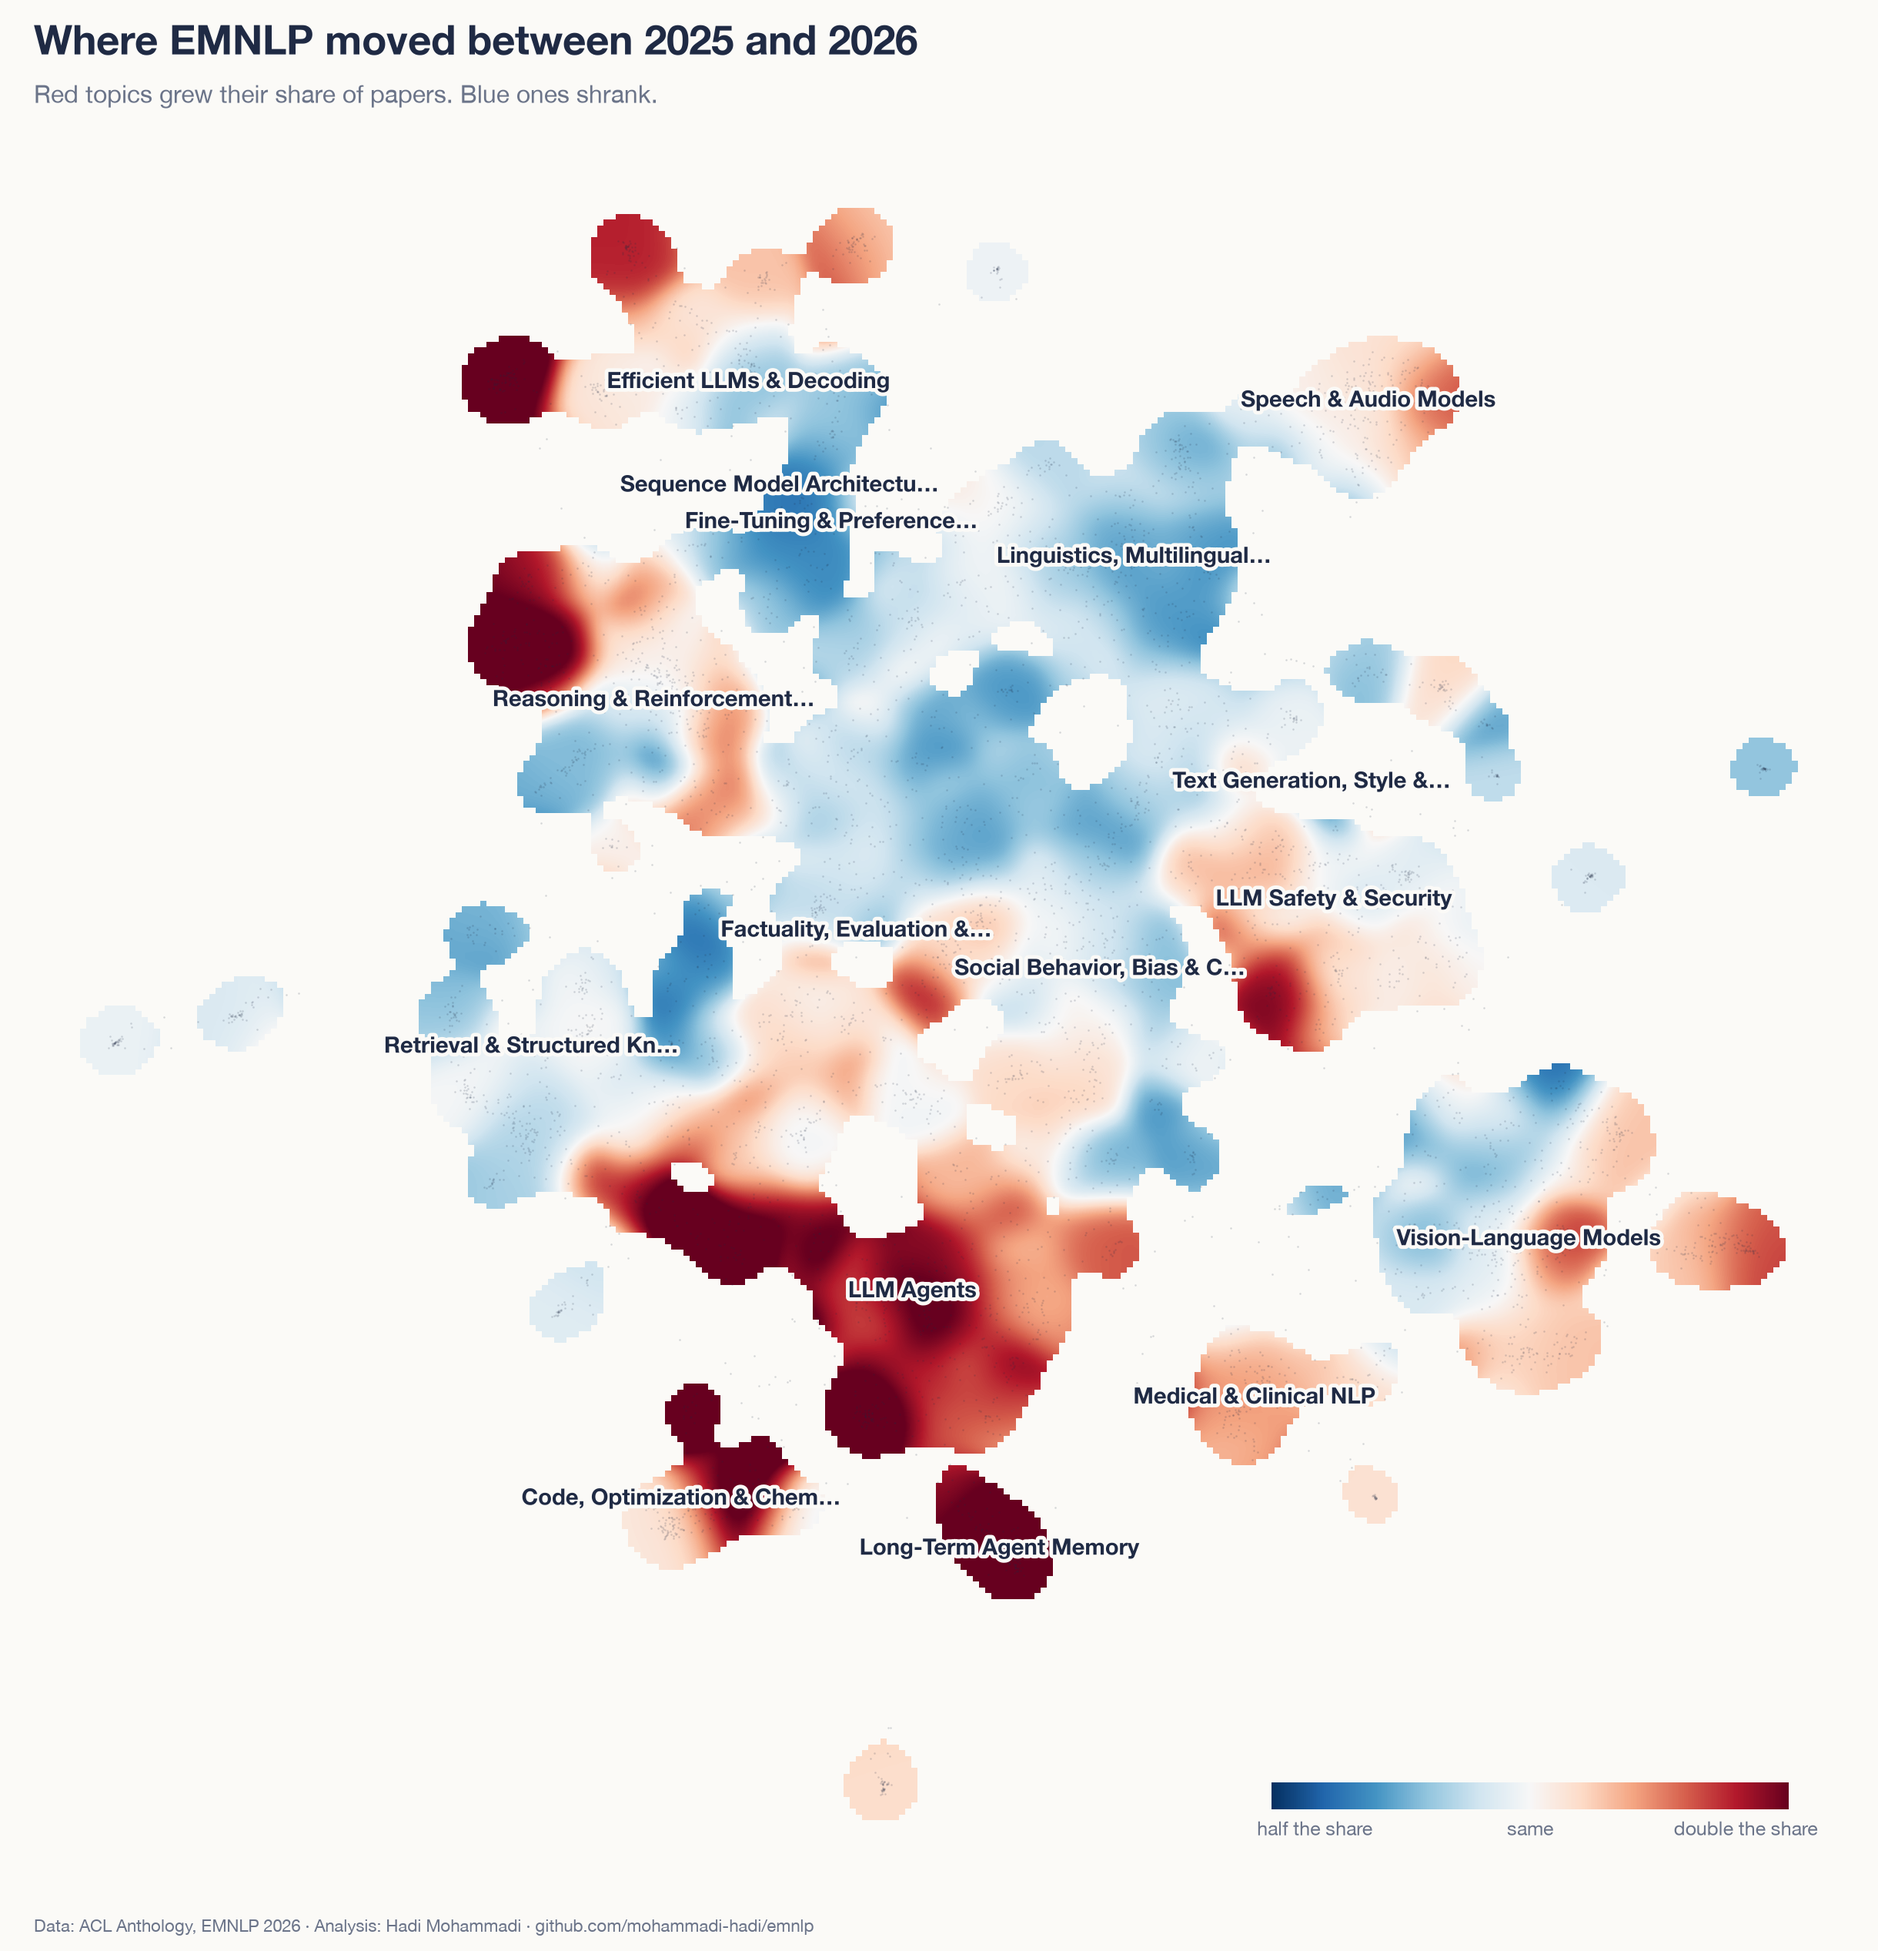
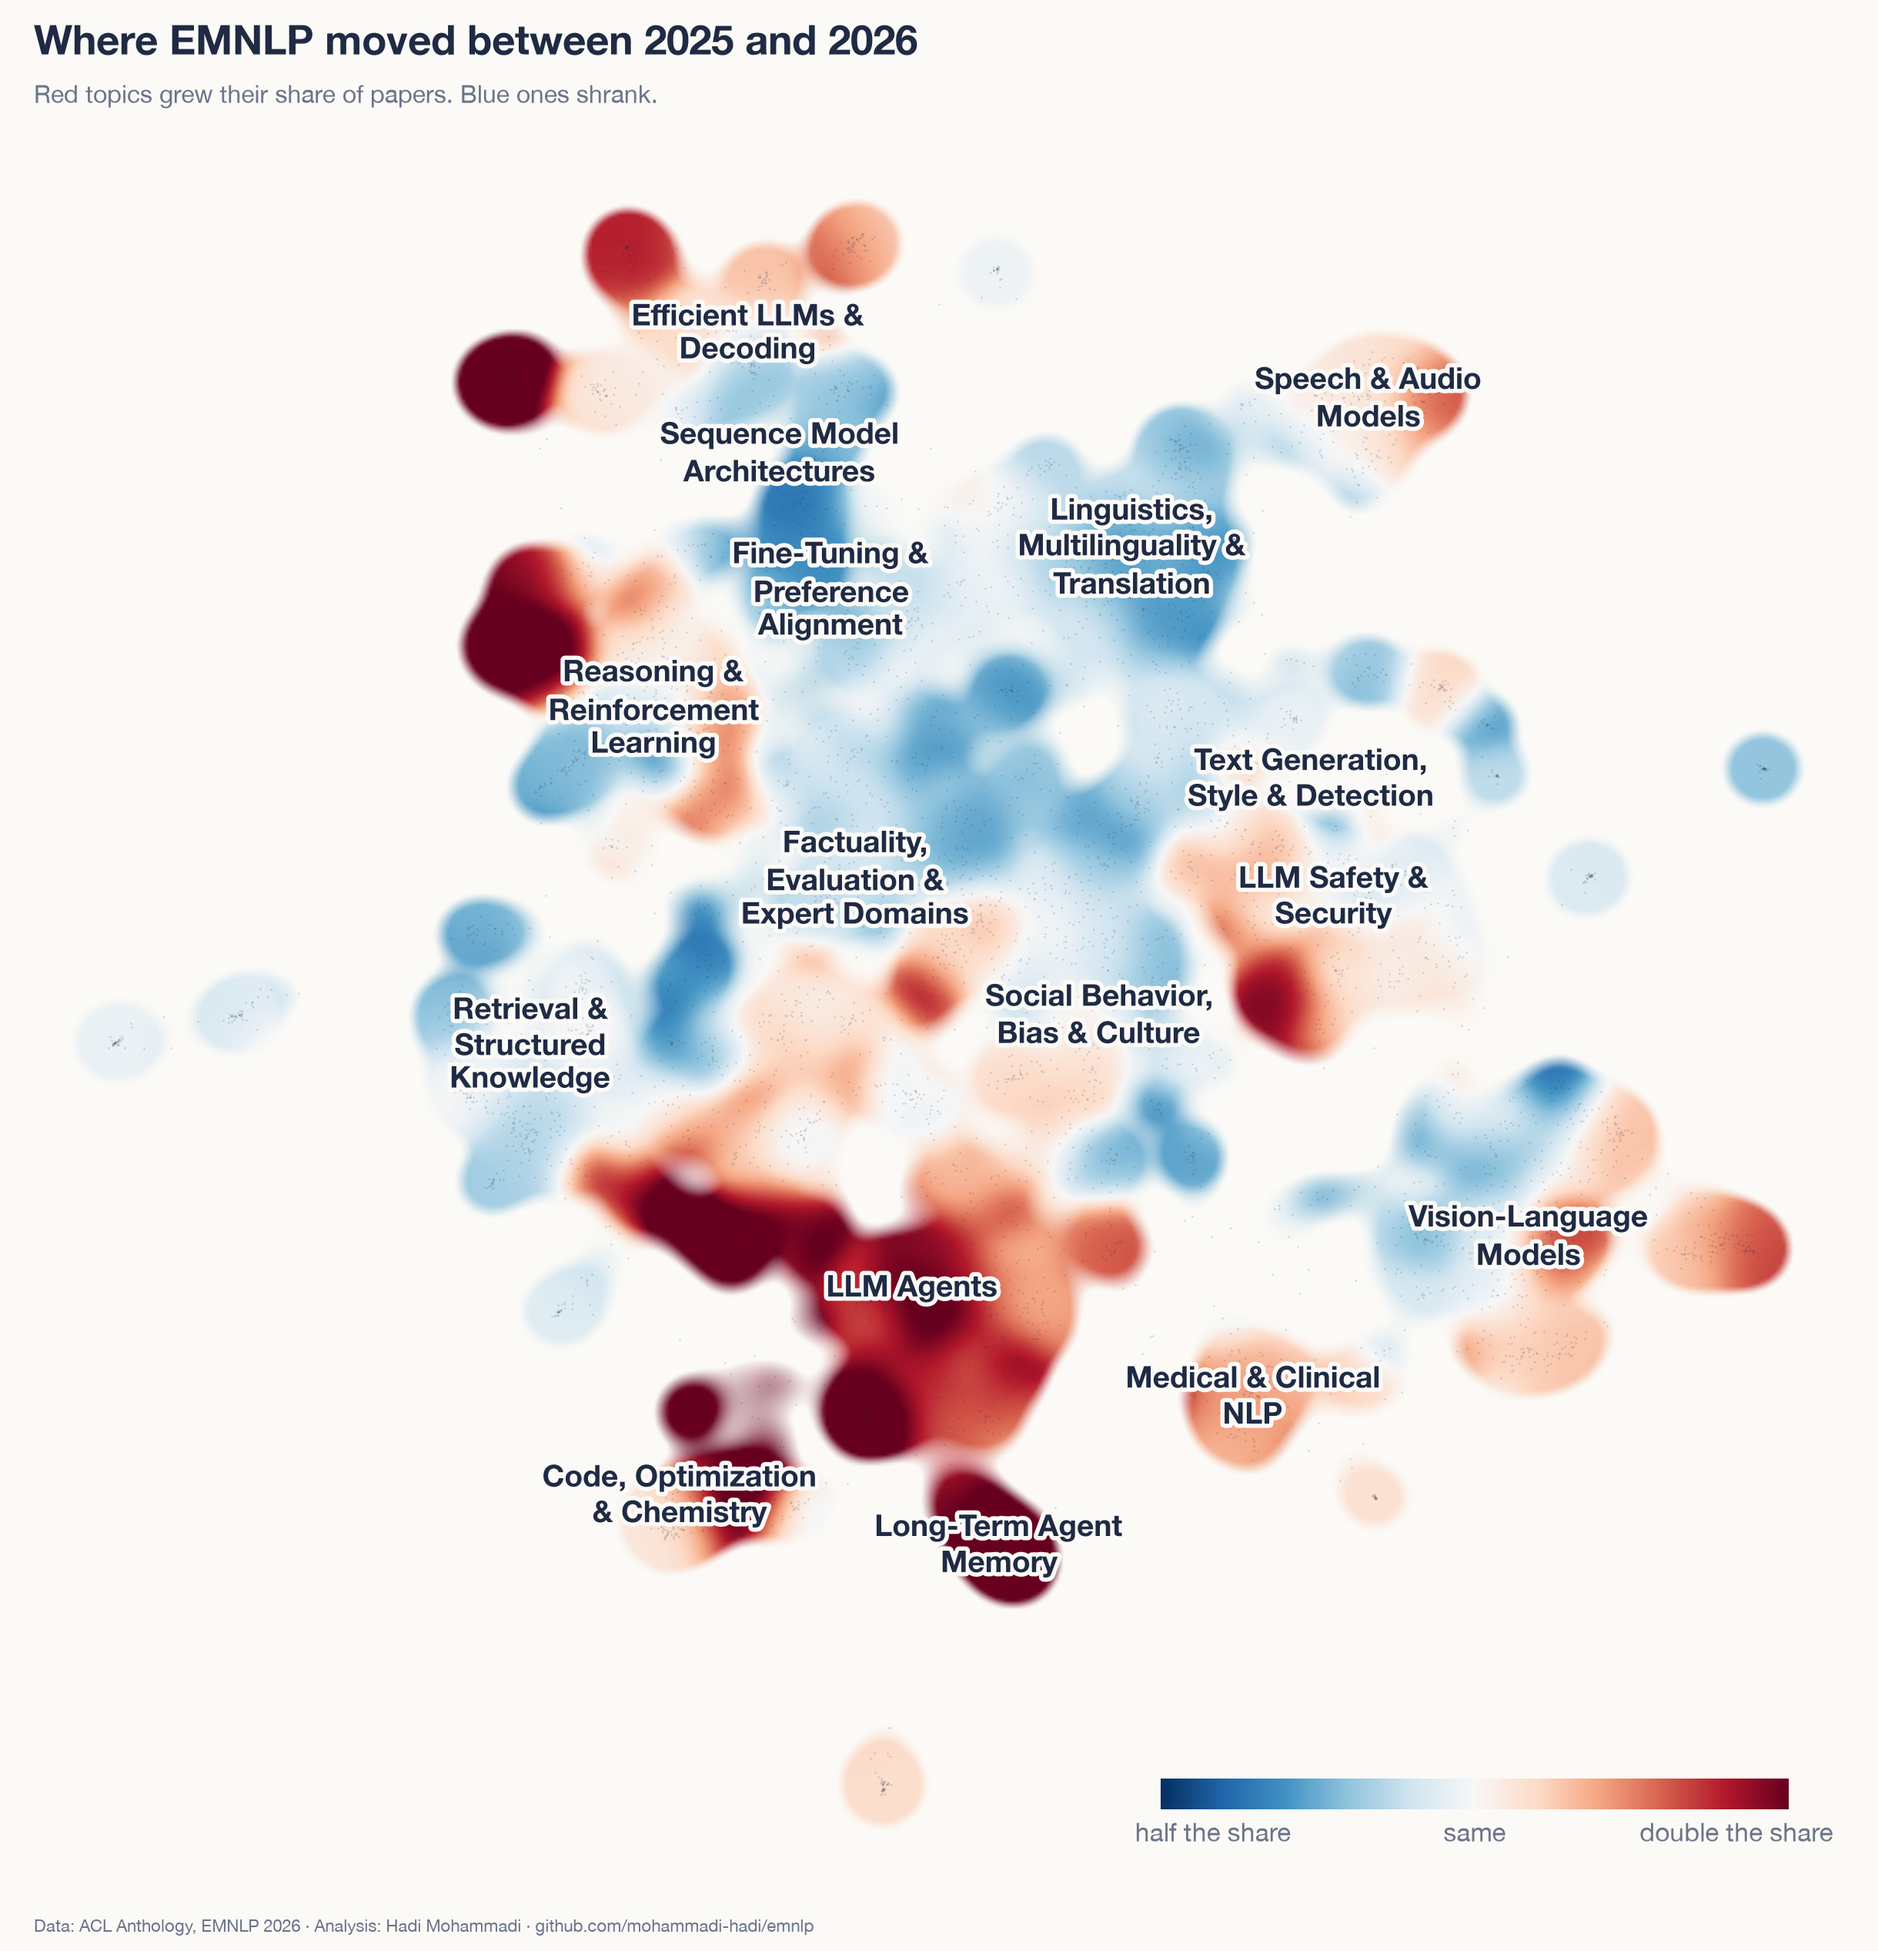
Redraw the field figure with whole, larger labels

diff --git a/src/10_story_figures.py b/src/10_story_figures.py
@@ -14,7 +14,7 @@ OUT/figures/:
 
 Run 05_stats.py first. "Ratio" always means share_cur / share_prev.
 """
-import json, re
+import json, re, textwrap
 import numpy as np
 import pandas as pd
 from config import CUR, PREV, P, OUT
@@ -135,13 +135,22 @@ field = np.ma.masked_where(cnt < 0.08, wsum / np.maximum(cnt, 1e-9))
 med = dc.groupby("broad")[["x", "y"]].median()
 
 
+def soft_field(x, y, w, ext):
+    """The same colour field on a finer grid, fading out at the edges instead of stepping in square pixels."""
+    rng, bins, sig = [ext[:2], ext[2:]], 600, 7
+    cnt = gaussian_filter(np.histogram2d(x, y, bins=bins, range=rng)[0], sig)
+    wsum = gaussian_filter(np.histogram2d(x, y, bins=bins, range=rng, weights=w)[0], sig)
+    rgba = plt.cm.RdBu_r(plt.Normalize(-1.2, 1.2)(wsum / np.maximum(cnt, 1e-9)))
+    rgba[..., 3] = np.clip((cnt - 0.012) / 0.016, 0, 1)
+    return rgba.transpose(1, 0, 2)
+
 def spread_labels(pos, names, fs, ax_in):
     """Push apart area labels that would overlap, using their size in data units."""
     pos = pos.copy()
     ux = (ext[1] - ext[0]) / ax_in[0] / 72  # data units per point
     uy = (ext[3] - ext[2]) / ax_in[1] / 72
-    w = {b: 0.55 * fs * len(names[b]) * ux for b in pos.index}
-    h = 1.5 * fs * uy
+    w = {b: 0.55 * fs * max(len(x) for x in names[b].split("\n")) * ux for b in pos.index}
+    h = 1.3 * fs * uy * max(names[b].count("\n") + 1 for b in pos.index)
     for _ in range(400):
         moved = False
         idx = list(pos.index)
@@ -159,16 +168,17 @@ def spread_labels(pos, names, fs, ax_in):
 
 fig = plt.figure(figsize=(12, 12.6))
 ax = fig.add_axes([0.0, 0.03, 1.0, 0.9])
-ax.imshow(field.T, origin="lower", extent=ext, cmap="RdBu_r", vmin=-1.2, vmax=1.2, interpolation="bilinear", aspect="auto")
+ax.imshow(soft_field(dc.x, dc.y, dc.fine.map(grow), ext), origin="lower", extent=ext, interpolation="bilinear", aspect="auto")
 ax.scatter(dc.x, dc.y, s=0.8, c=INK, alpha=0.18, linewidths=0)
-lab = {b: short(broad_name[b], 26) for b in med.index}
-for b, r in spread_labels(med, lab, 10.5, (12, 12.6 * 0.9)).iterrows():
-    outline(ax.text(r.x, r.y, lab[b], ha="center", va="center", fontsize=10.5, color=INK, fontweight="bold"), 3.5)
+# whole names on two or three lines, big enough to read at the size the story shows the figure
+lab = {b: textwrap.fill(short(broad_name[b], 60), 18) for b in med.index}
+for b, r in spread_labels(med, lab, 14, (12, 12.6 * 0.9)).iterrows():
+    outline(ax.text(r.x, r.y, lab[b], ha="center", va="center", fontsize=14, color=INK, fontweight="bold", linespacing=1.0), 4)
 ax.set_xlim(ext[:2]); ax.set_ylim(ext[2:]); ax.axis("off")
-cax = fig.add_axes([0.68, 0.07, 0.28, 0.014])
+cax = fig.add_axes([0.62, 0.07, 0.34, 0.016])
 cb = fig.colorbar(plt.cm.ScalarMappable(cmap="RdBu_r", norm=plt.Normalize(-1.2, 1.2)), cax=cax, orientation="horizontal")
 cb.set_ticks([-1, 0, 1]); cb.set_ticklabels(["half the share", "same", "double the share"])
-cb.outline.set_visible(False); cax.tick_params(labelsize=9, colors=MUTED, length=0)
+cb.outline.set_visible(False); cax.tick_params(labelsize=12, colors=MUTED, length=0)
 frame(fig, f"Where EMNLP moved between {PREV} and {CUR}", "Red topics grew their share of papers. Blue ones shrank.")
 save(fig, "field_moved.png")
 
